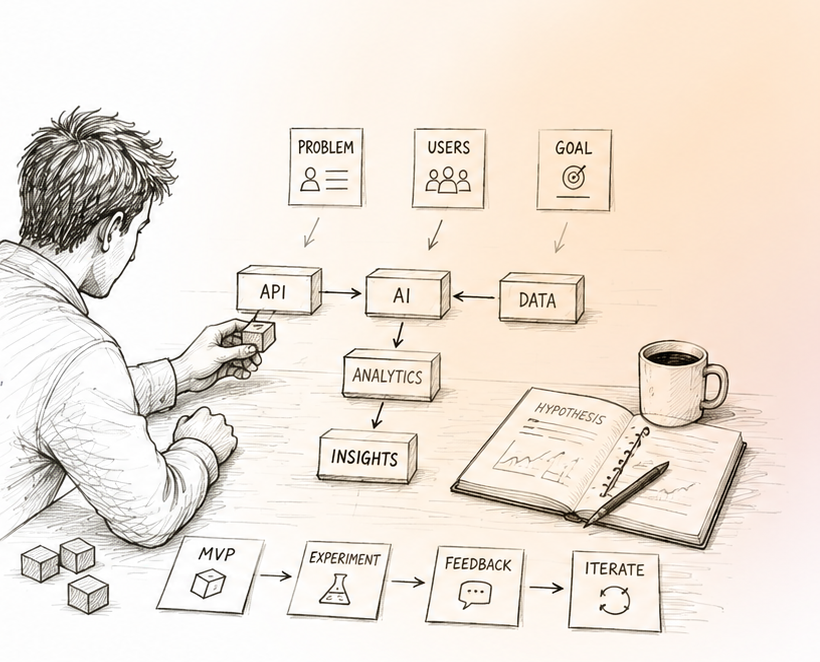
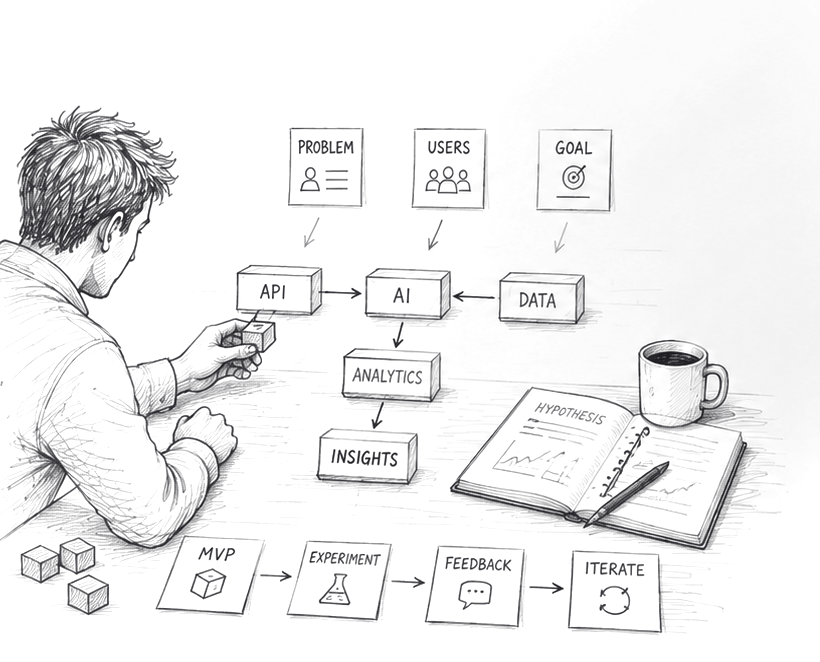
Bake the hero sketch's paper into transparency
The illustration still showed a faint rectangle against the page: the
multiply blend meant to drop its white paper was a no-op inside the
animated wrapper's stacking context, so a near-white box sat on top of
the white page.

Move the paper into the file's alpha channel instead — only the pencil
carries opacity now — and drop the filter/blend-mode workaround.

Claude-Session: https://claude.ai/code/session_011zx8r537Wn9skB3rU1c9Qq

diff --git a/components/hero-sketch.tsx b/components/hero-sketch.tsx
@@ -1,8 +1,10 @@
 import Image from "next/image";
 
-// The artwork ships with a warm tinted paper baked in. Desaturating it and
-// lifting the highlights pushes that paper to white, and multiply then drops
-// the white entirely, so the drawing sits on the page with no visible edges.
+// The paper the sketch was drawn on is baked into the file's alpha channel now
+// — only the pencil itself carries any opacity — so the drawing sits straight
+// on the page with no rectangle showing, whatever is behind it. Filters and
+// blend modes are deliberately absent: multiply was a no-op inside the
+// animated wrapper's stacking context, which is what left the box visible.
 export function HeroSketch({ className }: { className?: string }) {
   return (
     <Image
@@ -12,10 +14,6 @@ export function HeroSketch({ className }: { className?: string }) {
       height={662}
       priority
       className={className}
-      style={{
-        filter: "grayscale(1) contrast(1.06) brightness(1.12)",
-        mixBlendMode: "multiply"
-      }}
     />
   );
 }
